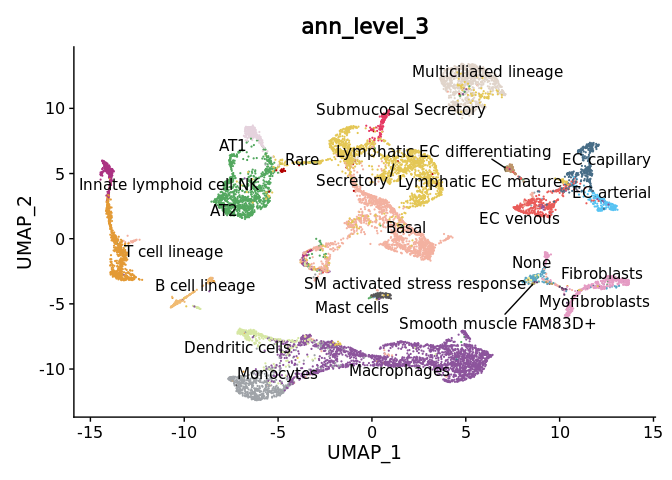
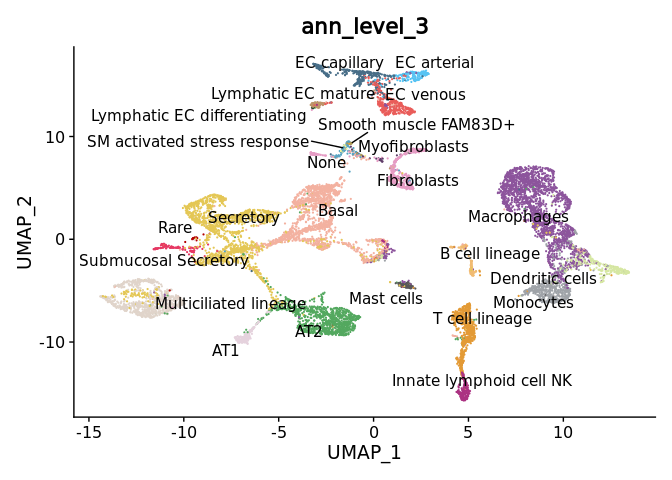
adding new version of unsup integration

diff --git a/examples/HLCA_core_atlas.md b/examples/HLCA_core_atlas.md
@@ -90,7 +90,7 @@ reticulate and the MCAT tool).
     library(reticulate)
     conda_env <-  conda_list()[reticulate::conda_list()$name == "MetacellAnalysisToolkit","python"]
 
-    use_condaenv(conda_env)
+    Sys.setenv(RETICULATE_PYTHON = conda_env)
 
 ## Splitting atlas by datasets
 
@@ -256,6 +256,11 @@ details.
 
 This should take less than 5 minutes.
 
+    n.metacells <- sapply(metacell.objs,FUN = function(x){ncol(x)})
+    names(n.metacells) <- datasets
+    ref.names <- sort(n.metacells,decreasing = T)[1:5]
+    ref.index <- which(datasets %in% names(ref.names))
+
     # normalize each dataset 
     metacell.objs <- lapply(X = metacell.objs, FUN = function(x) {
       DefaultAssay(x) <- "RNA";
@@ -274,13 +279,13 @@ This should take less than 5 minutes.
     anchors <- FindIntegrationAnchors(object.list = metacell.objs, 
                                            anchor.features = features, 
                                            reduction = "rpca",
-                                           reference = c(1,2,5,9,11), # the 5 biggest datasets (in term of metacell number) are used as reference
+                                           reference = ref.index, # the 5 biggest datasets (in term of metacell number) are used as reference
                                            dims = 1:30)
 
     remove(metacell.objs) # We don't need the object list anymore
     gc()
 
-    combined.mc <- IntegrateData(anchorset = anchors,k.weight = 50) # we have to update the k.weight parameters because the smallest dataset contain less than 100 metacells
+    combined.mc <- IntegrateData(anchorset = anchors,k.weight = 40) # we have to update the k.weight parameters because the smallest dataset contain less than 100 metacells
 
 Check the obtained object.
 
@@ -306,43 +311,43 @@ downstream analysis.
     combined.mc <- RunPCA(combined.mc, npcs = 30, verbose = FALSE)
     combined.mc <- RunUMAP(combined.mc, reduction = "pca", dims = 1:30)
 
-    ## 14:43:22 UMAP embedding parameters a = 0.9922 b = 1.112
+    ## 13:45:15 UMAP embedding parameters a = 0.9922 b = 1.112
 
-    ## 14:43:22 Read 11706 rows and found 30 numeric columns
+    ## 13:45:15 Read 11706 rows and found 30 numeric columns
 
-    ## 14:43:22 Using Annoy for neighbor search, n_neighbors = 30
+    ## 13:45:15 Using Annoy for neighbor search, n_neighbors = 30
 
-    ## 14:43:22 Building Annoy index with metric = cosine, n_trees = 50
+    ## 13:45:15 Building Annoy index with metric = cosine, n_trees = 50
 
     ## 0%   10   20   30   40   50   60   70   80   90   100%
 
     ## [----|----|----|----|----|----|----|----|----|----|
 
     ## **************************************************|
-    ## 14:43:24 Writing NN index file to temp file /tmp/35284735/RtmpnWEIkG/file3633692c325f
-    ## 14:43:24 Searching Annoy index using 1 thread, search_k = 3000
-    ## 14:43:27 Annoy recall = 100%
-    ## 14:43:27 Commencing smooth kNN distance calibration using 1 thread with target n_neighbors = 30
-    ## 14:43:28 Initializing from normalized Laplacian + noise (using irlba)
-    ## 14:43:29 Commencing optimization for 200 epochs, with 484456 positive edges
-    ## 14:43:35 Optimization finished
+    ## 13:45:17 Writing NN index file to temp file /tmp/35396656/RtmpuO1bzA/file1aba87e699b20
+    ## 13:45:17 Searching Annoy index using 1 thread, search_k = 3000
+    ## 13:45:20 Annoy recall = 100%
+    ## 13:45:20 Commencing smooth kNN distance calibration using 1 thread with target n_neighbors = 30
+    ## 13:45:21 Initializing from normalized Laplacian + noise (using irlba)
+    ## 13:45:22 Commencing optimization for 200 epochs, with 479450 positive edges
+    ## 13:45:27 Optimization finished
 
     combined.mc <- RunUMAP(combined.mc, dims = 1:30,reduction =  "pca",reduction.name = "umap")
 
-    ## 14:43:35 UMAP embedding parameters a = 0.9922 b = 1.112
-    ## 14:43:35 Read 11706 rows and found 30 numeric columns
-    ## 14:43:35 Using Annoy for neighbor search, n_neighbors = 30
-    ## 14:43:35 Building Annoy index with metric = cosine, n_trees = 50
+    ## 13:45:27 UMAP embedding parameters a = 0.9922 b = 1.112
+    ## 13:45:27 Read 11706 rows and found 30 numeric columns
+    ## 13:45:27 Using Annoy for neighbor search, n_neighbors = 30
+    ## 13:45:27 Building Annoy index with metric = cosine, n_trees = 50
     ## 0%   10   20   30   40   50   60   70   80   90   100%
     ## [----|----|----|----|----|----|----|----|----|----|
     ## **************************************************|
-    ## 14:43:36 Writing NN index file to temp file /tmp/35284735/RtmpnWEIkG/file3633694727d392
-    ## 14:43:36 Searching Annoy index using 1 thread, search_k = 3000
-    ## 14:43:39 Annoy recall = 100%
-    ## 14:43:39 Commencing smooth kNN distance calibration using 1 thread with target n_neighbors = 30
-    ## 14:43:40 Initializing from normalized Laplacian + noise (using irlba)
-    ## 14:43:42 Commencing optimization for 200 epochs, with 484456 positive edges
-    ## 14:43:47 Optimization finished
+    ## 13:45:28 Writing NN index file to temp file /tmp/35396656/RtmpuO1bzA/file1aba896f5224
+    ## 13:45:28 Searching Annoy index using 1 thread, search_k = 3000
+    ## 13:45:32 Annoy recall = 100%
+    ## 13:45:32 Commencing smooth kNN distance calibration using 1 thread with target n_neighbors = 30
+    ## 13:45:33 Initializing from normalized Laplacian + noise (using irlba)
+    ## 13:45:33 Commencing optimization for 200 epochs, with 479450 positive edges
+    ## 13:45:39 Optimization finished
 
 Now we can make the plots and visually compare the results with the
 unintegrated analysis.
@@ -396,10 +401,10 @@ We cluster the metacells based on the corrected PCA space by Seurat.
 
 ### Differently expressed gene (DEG) analysis.
 
-Now let’s found the markers of the cluster 19 we’ve just identified.
+Now let’s found the markers of the cluster 23 we’ve just identified.
 
     DefaultAssay(combined.mc) <- "RNA"
-    markers18 <- FindMarkers(combined.mc,ident.1 = 18,only.pos = T)
+    markers23 <- FindMarkers(combined.mc,ident.1 = 23,only.pos = T)
 
     ## For a more efficient implementation of the Wilcoxon Rank Sum Test,
     ## (default method for FindMarkers) please install the limma package
@@ -411,25 +416,25 @@ Now let’s found the markers of the cluster 19 we’ve just identified.
     ## efficient implementation (no further action necessary).
     ## This message will be shown once per session
 
-    head(markers18)
+    head(markers23)
 
-    ##          p_val avg_log2FC pct.1 pct.2 p_val_adj
-    ## TNFRSF17     0  0.9274364 0.762 0.029         0
-    ## TCL1A        0  1.0045973 0.481 0.019         0
-    ## CD79A        0  2.9087361 1.000 0.133         0
-    ## FCRLA        0  0.7458042 0.801 0.018         0
-    ## BLK          0  0.8766954 0.845 0.054         0
-    ## FCRL5        0  0.8790523 0.934 0.020         0
+    ##       p_val avg_log2FC pct.1 pct.2 p_val_adj
+    ## TCL1A     0  1.3939674 0.695 0.020         0
+    ## FCRLA     0  1.0703400 0.962 0.022         0
+    ## BLK       0  1.2192942 0.990 0.058         0
+    ## FCRL5     0  0.7934100 0.895 0.026         0
+    ## PNOC      0  0.5477793 0.924 0.050         0
+    ## PAX5      0  0.6089985 0.886 0.024         0
 
 This cluster clearly present a B cell signature with marker genes such
 as CD19 and PAX5
 
     genes <-c("CD19","PAX5") # knwon mast cells markers 
-    markers18[genes,]
+    markers23[genes,]
 
     ##              p_val avg_log2FC pct.1 pct.2     p_val_adj
-    ## CD19 3.323011e-222  0.7754585 0.812 0.111 9.312405e-218
-    ## PAX5  0.000000e+00  0.3968396 0.630 0.022  0.000000e+00
+    ## CD19 1.599543e-207  1.1037564 0.990 0.114 4.482558e-203
+    ## PAX5  0.000000e+00  0.6089985 0.886 0.024  0.000000e+00
 
     VlnPlot(combined.mc,genes,ncol = 1)
 
@@ -439,7 +444,7 @@ By looking at the metacell annotation (assigned from the original
 single-cell metadata by MCAT), we can verify that we correctly retrieved
 the B cell lineage cluster
 
-    DimPlot(combined.mc[,combined.mc$integrated_snn_res.0.5 == 18],group.by = c("ann_level_3","integrated_snn_res.0.5"),ncol = 2)
+    DimPlot(combined.mc[,combined.mc$integrated_snn_res.0.5 == 23],group.by = c("ann_level_3","integrated_snn_res.0.5"),ncol = 2)
 
 ![](HLCA_core_atlas_files/figure-markdown_strict/unnamed-chunk-19-1.png)
 
